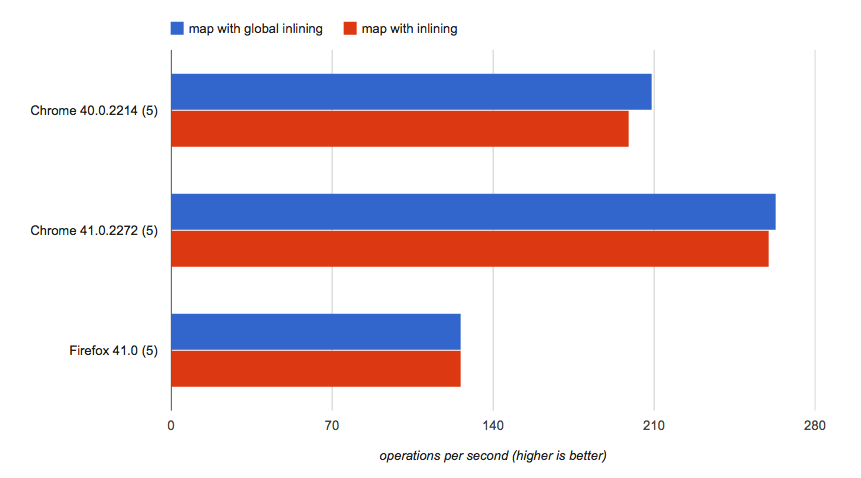
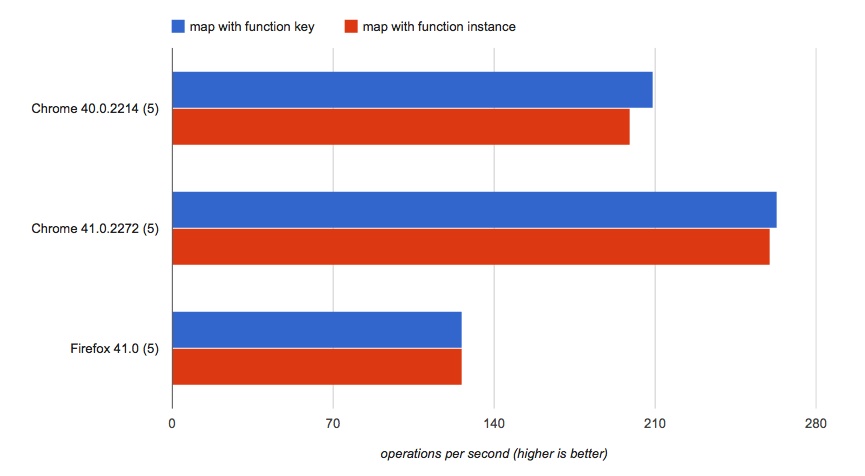
Fixes benchmark image name.

diff --git a/spikes/6.2/inlinedVsGlobalInlined/jspBenchmark.js b/spikes/6.2/inlinedVsGlobalInlined/jspBenchmark.js
@@ -46,12 +46,12 @@ var __finish = function (result) {
   deferred.resolve();
 };
 
-// Test case 1 - map with inlining
+// Test case 1 - map with function instance
 wrappedXs.map(inlinedMapper).seq(function (result) {
   __finish();
 });
 
-// Test case 2 - map with global inlining
+// Test case 2 - map with function key
 wrappedXs.map('x').seq(function (result) {
   __finish();
 });
